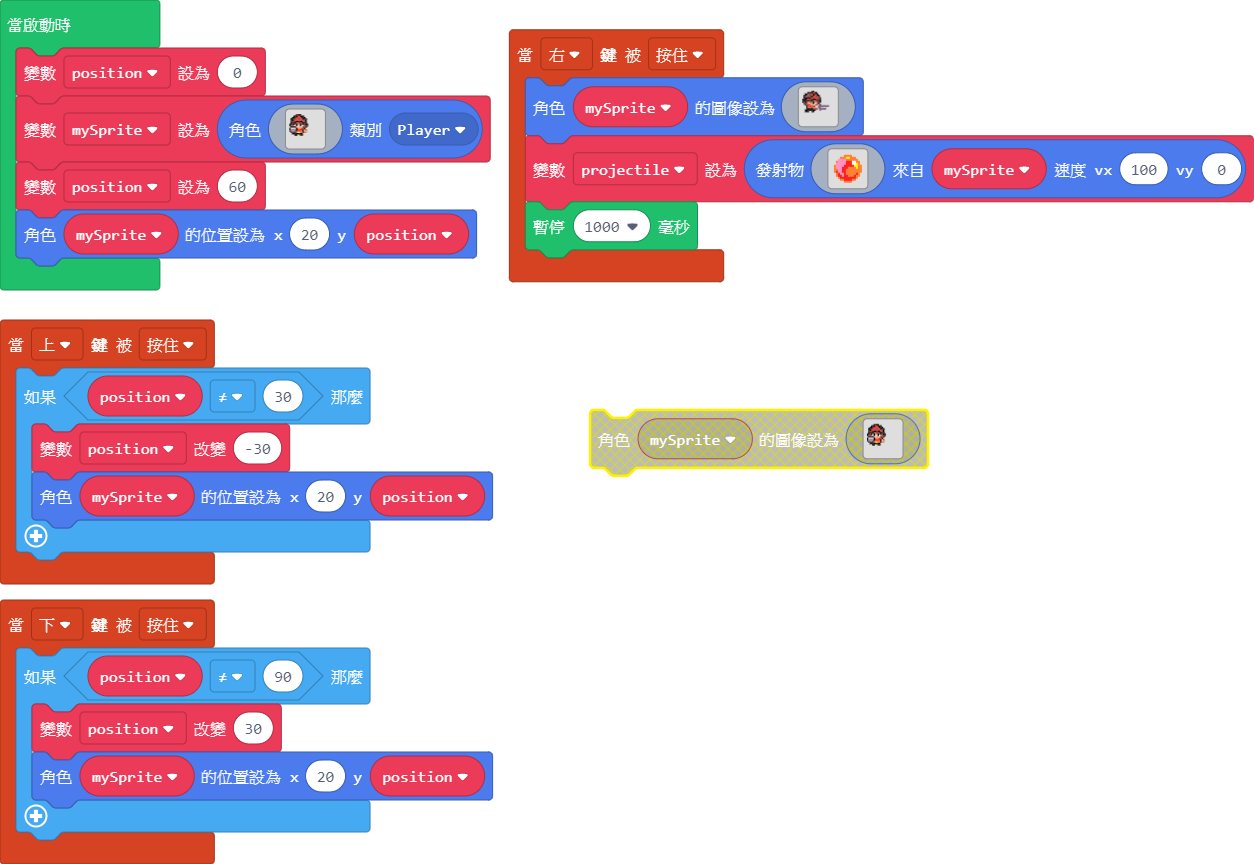
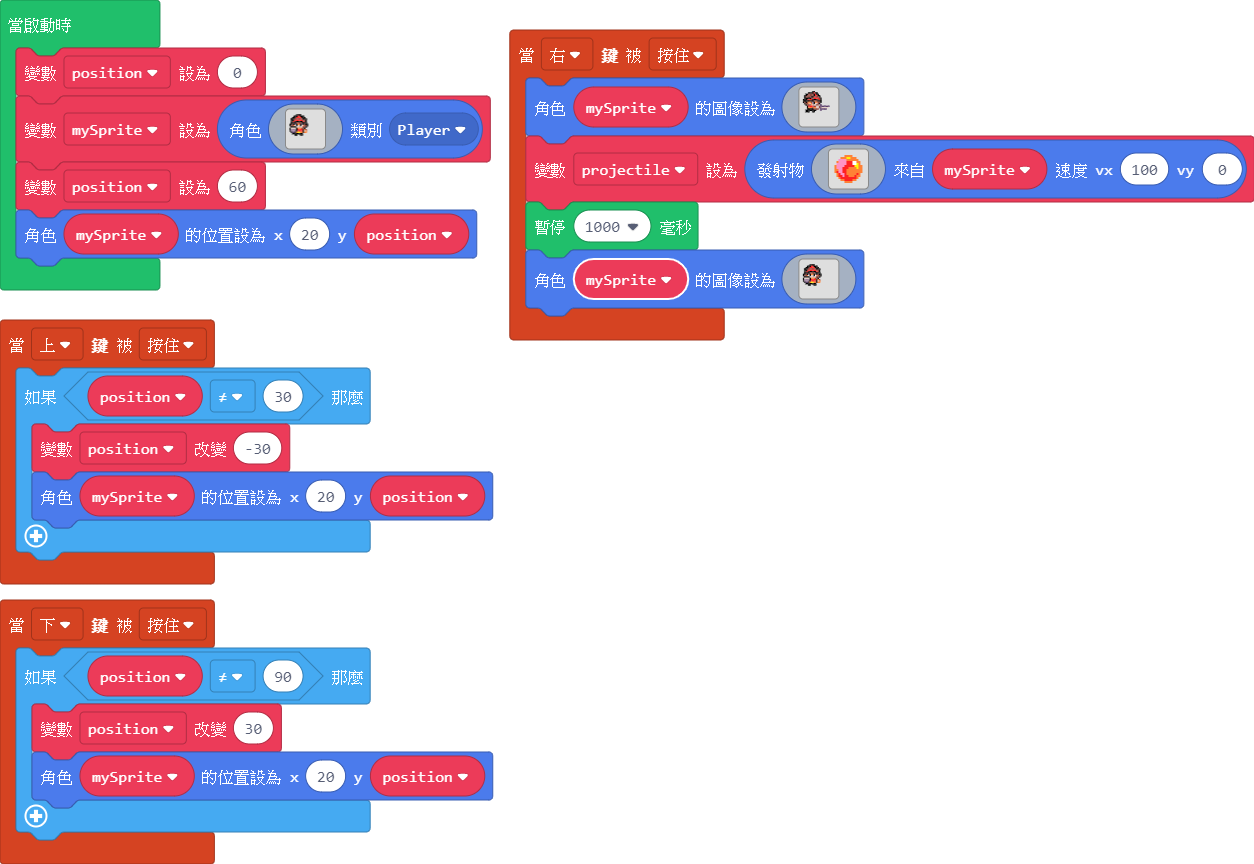
Update main.blocks, main.ts

diff --git a/main.ts b/main.ts
@@ -50,6 +50,32 @@ f e f e 4 4 e b f 4 4 e e f . . . . . . . . . .
 . . . . . . . . . . . . . . . . 
 `, mySprite, 100, 0)
     pause(1000)
+    mySprite.setImage(img`
+. . . . . . . . . . . . . . . . . . . . . . . . 
+. . . . . f f f f . . . . . . . . . . . . . . . 
+. . . f f f 2 2 f f f . . . . . . . . . . . . . 
+. . f f f 2 2 2 2 f f f . . . . . . . . . . . . 
+. f f f e e e e e e f f f . . . . . . . . . . . 
+. f f e 2 2 2 2 2 2 e e f . . . . . . . . . . . 
+. f e 2 f f f f f f 2 e f . . . . . . . . . . . 
+. f f f f e e e e f f f f . . . . . . . . . . . 
+f f e f b f 4 4 f b f e f f . . . . . . . . . . 
+f e e 4 1 f d d f 1 4 e e f . . . . . . . . . . 
+. f f f f d d d d d e e f . . . . . . . . . . . 
+f d d d d f 4 4 4 e e f . . . . . . . . . . . . 
+f b b b b f 2 2 2 2 f 4 e . . . . . . . . . . . 
+f b b b b f 2 2 2 2 f d 4 . . . . . . . . . . . 
+. f c c f 4 5 5 4 4 f 4 4 . . . . . . . . . . . 
+. . f f f f f f f f . . . . . . . . . . . . . . 
+. . . . f f . . f f . . . . . . . . . . . . . . 
+. . . . . . . . . . . . . . . . . . . . . . . . 
+. . . . . . . . . . . . . . . . . . . . . . . . 
+. . . . . . . . . . . . . . . . . . . . . . . . 
+. . . . . . . . . . . . . . . . . . . . . . . . 
+. . . . . . . . . . . . . . . . . . . . . . . . 
+. . . . . . . . . . . . . . . . . . . . . . . . 
+. . . . . . . . . . . . . . . . . . . . . . . . 
+`)
 })
 controller.up.onEvent(ControllerButtonEvent.Pressed, function () {
     if (position != 30) {
